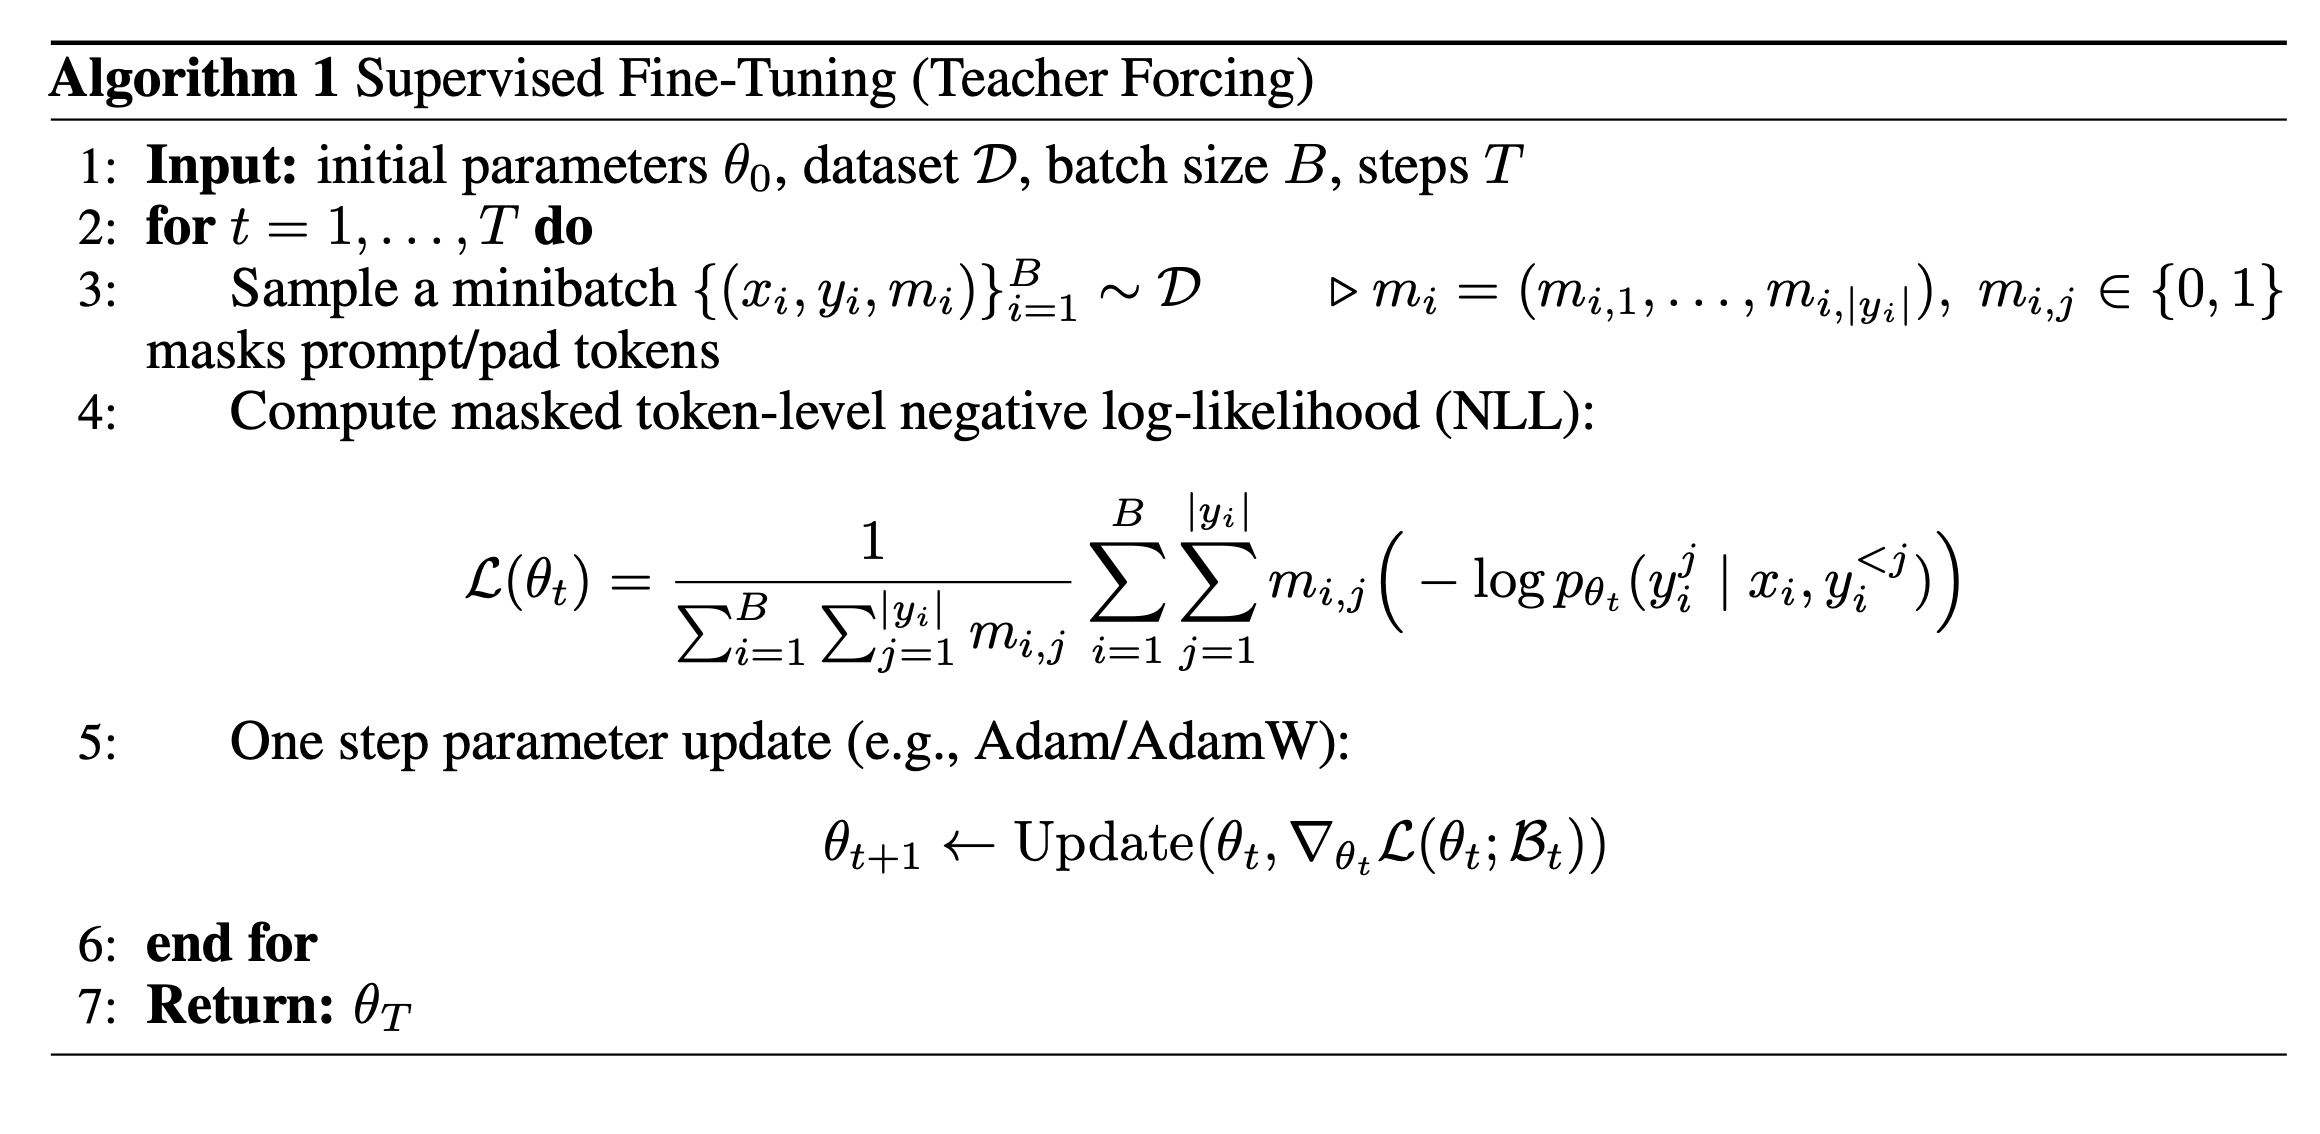
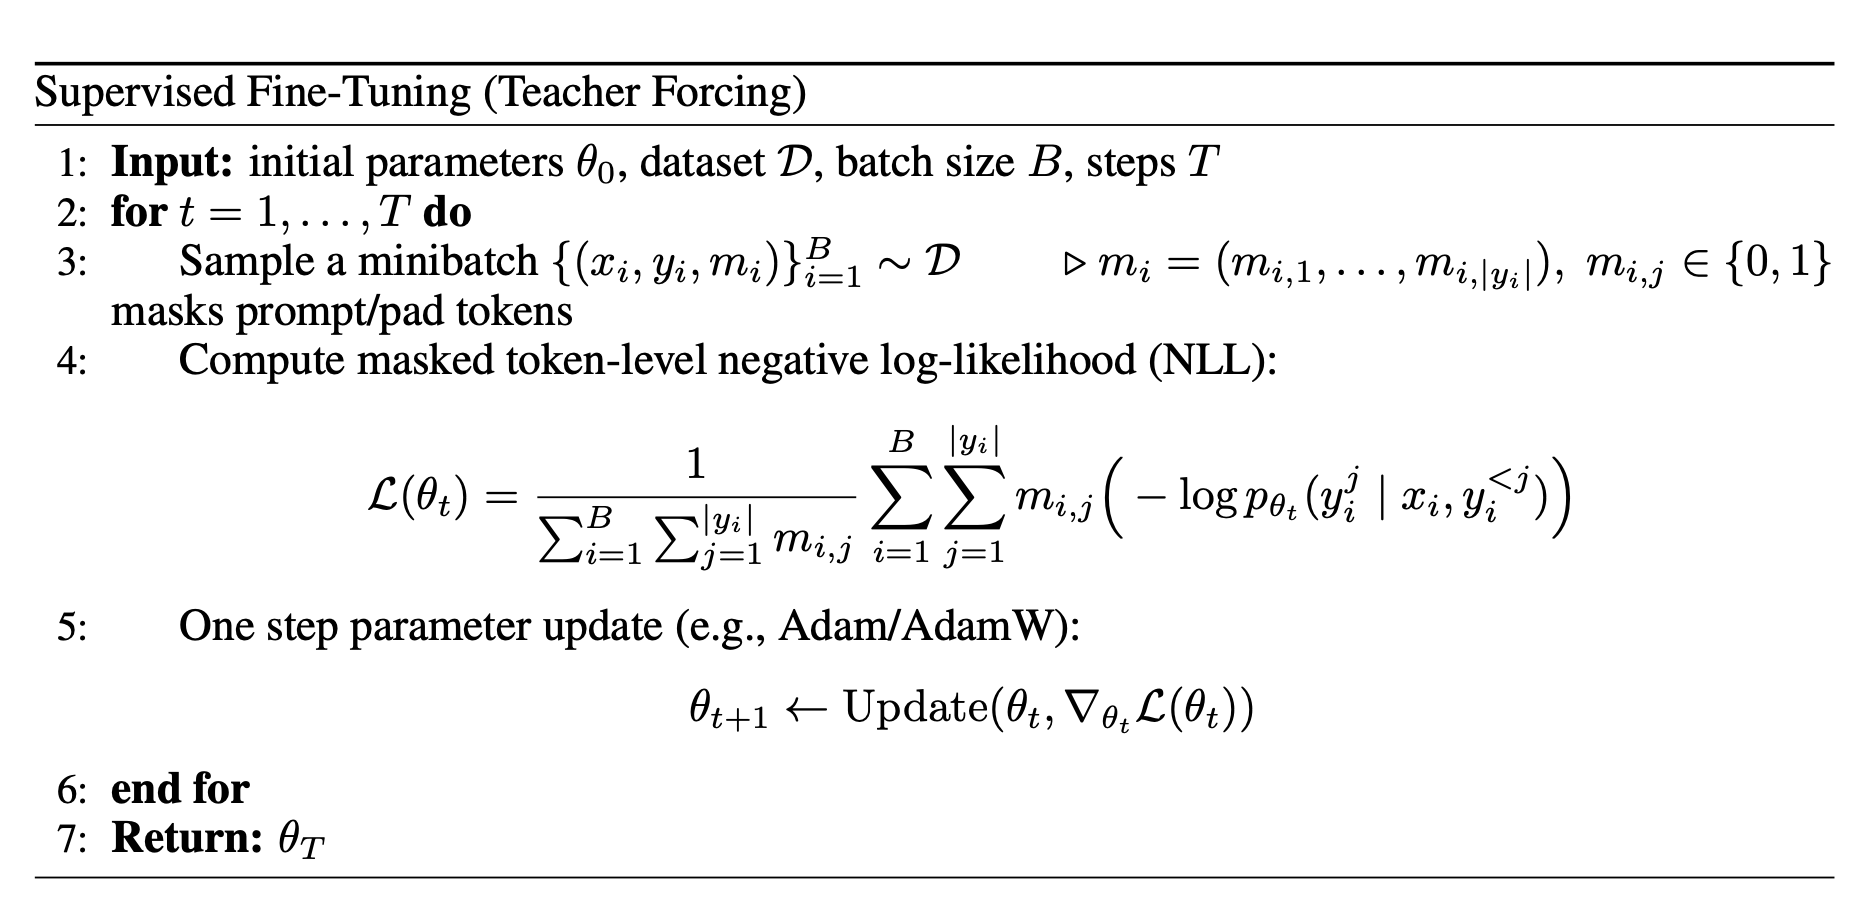
add readme + alg for each method

diff --git a/algs/SGRPO/README.md b/algs/SGRPO/README.md
@@ -1,0 +1,22 @@
+### SGRPO (our implementation)
+
+SGRPO is a PPO-style update trained from a replay buffer. During rollout, for each prompt we generate multiple completions and compute group-normalized advantages (e.g., z-scored rewards within the set of completions for the same prompt). These advantages, along with the corresponding old policy log-probabilities (`old_logprobs`) and a token mask (to exclude prompt/padding), are stored in the replay buffer.
+
+At training time, we do **not** construct batches that keep all completions of the same prompt together. Instead, we **uniformly sample** from the replay buffer, so each (micro-)batch contains a mixture of tokens from many prompts and many generations. For each micro-batch we run a forward pass under the current policy to obtain token log-probabilities, form the PPO ratio, and apply the standard clipped surrogate objective using the stored advantages. Optionally, we add an entropy bonus and an optional KL-to-reference penalty implemented in a variance-reduced form.
+
+We do this replay-style, uniform sampling for two practical reasons. First, it makes the training loop more flexible in how batches are constructed: groups do not need to be materialized explicitly during training, and we can easily support variable numbers of samples per prompt-group. This is also convenient when rollouts contain duplicates (e.g., a group where multiple generations collapse to the same completion for a prompt), since we can ignore or down-weight such samples directly during generation without restructuring group batches. Second, optimizing over an uniform samples from replay buffer rather than only the current set of grouped completions tends to improve stability, because each update is informed by a broader, more diverse mix of recent experiences.
+
+#### Difference vs official GRPO-style implementations
+
+Common GRPO implementations typically build each training step around prompt-groups: start from a batch of prompts, generate G completions per prompt, and compute normalization (advantages/scaling) within each group (across the G completions for the same prompt). Training batches therefore preserve group structure by construction.
+
+In contrast, our SGRPO uses uniform sampling from replay buffer, so training batches are not group-structured (even though the stored advantages are computed using per-prompt group normalization at rollout time). This changes the update statistics: instead of operating on a self-contained set of completions for a prompt, each update is driven by a mixture of replay samples across many prompts.
+
+#### `update_only_after_full_replay=True`
+
+This flag does **not** change sampling as we still sample uniformly from replay. It only changes the **optimizer step boundary**:
+
+* If `False`, we step according to DeepSpeed gradient-accumulation boundaries (typical micro-batch accumulation).
+* If `True`, we accumulate gradients over the entire replay shard and apply **one optimizer step at the end** (often with a scaling to keep gradient magnitude comparable).
+
+ ![SGRPO algorithm](./alg_sgrpo.png)

diff --git a/algs/CISPO/README.md b/algs/CISPO/README.md
@@ -1,0 +1,11 @@
+### CISPO (vs GRPO-style clipping)
+
+CISPO differs from typical PPO/GRPO-style updates only in the **policy loss / clipping form**. GRPO-style clipping uses the “min of unclipped vs clipped objective”: with ratio (r=\exp(\log p_\theta-\log q)), it optimizes
+[
+\mathcal{L}*{\text{GRPO}}(\theta)=-\mathbb{E}\Big[\min\big(rA,\ \mathrm{clip}(r,1-\epsilon*\ell,1+\epsilon_h)A\big)\Big].
+]
+CISPO instead clips the ratio and uses the **clipped ratio as a stop-gradient coefficient** multiplying the log-prob term:
+[
+\mathcal{L}*{\text{CISPO}}(\theta)= -\mathbb{E}\Big[\mathrm{sg}!\big(\mathrm{clip}(r,1-\epsilon*\ell,1+\epsilon_h)\big)\ \log p_\theta(\cdot)\ A\Big].
+]
+In this repo, CISPO is therefore “SGRPO with a different `compute_policy_loss(...)`”: the replay format, uniform replay sampling, masking, DeepSpeed micro-batching/accumulation, and optional entropy/KL terms are unchanged—only the clipping/weighting in the policy objective differs.  

diff --git a/algs/PPO/README.md b/algs/PPO/README.md
@@ -1,0 +1,6 @@
+### PPO
+
+ Our PPO training step (`train_step`) runs on a replay shard (a list of `micro_batches`) and uses DeepSpeed for micro-batching and gradient accumulation. Before any policy/value updates, we call `precompute_gae(micro_batches)`, which runs the value model in `eval()` mode and computes returns and advantages via `compute_advantages(...)` using `gamma` and `tau` (GAE). Then, for each `micro_batch`, we update the policy with a PPO clipped objective using stored `old_logprobs` and `mask`, plus optional entropy regularization (`ent_coeff`) and optional KL-to-reference penalty (`kl_coeff` if a reference model exists). We also update the value model by regressing `values` to the precomputed `returns` with a masked MSE. If `update_only_after_full_replay=True`, we take one optimizer step at the end of the replay shard (and scale losses by `ga_steps/num_micro` to keep gradient magnitude consistent.
+
+
+ ![PPO algorithm](./alg_ppo.png)

diff --git a/algs/DPO/README.md b/algs/DPO/README.md
@@ -1,0 +1,5 @@
+# Direct Preference Optimization (DPO)
+
+This DPO variant computes the usual policy-vs-reference log-ratio, but instead of summing over tokens which can bias learning toward longer completions, it forms a length-normalized reward for each completion by averaging the masked token log-ratios over the number of supervised (unmasked) tokens. The loss is then the standard DPO logistic objective on the difference between the chosen and rejected rewards. In practice with DeepSpeed, the pseudocode “minibatch” corresponds to an effective batch assembled from micro-batches with gradient accumulation.
+
+![DPO algorithm](./alg_dpo.png)